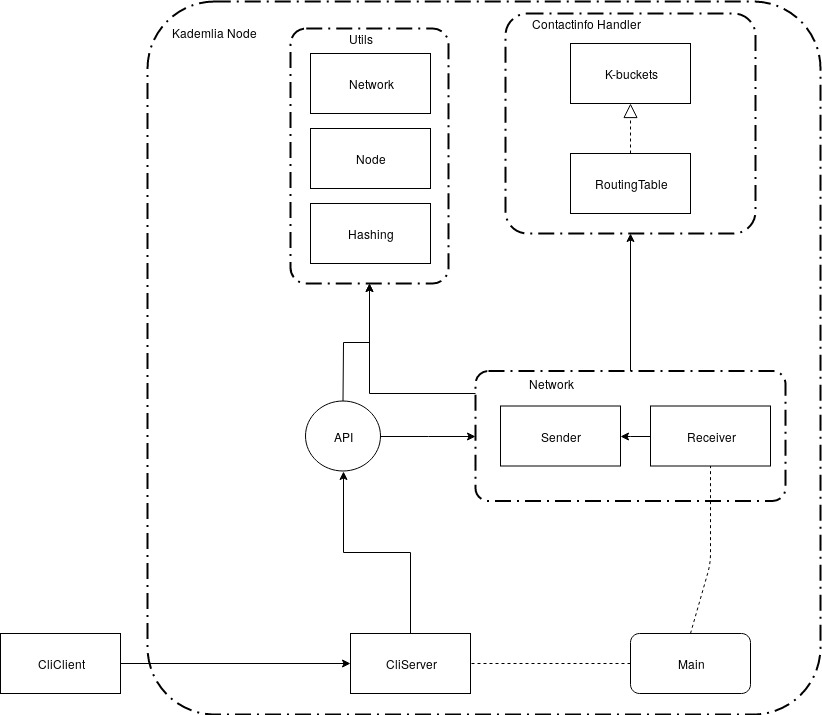
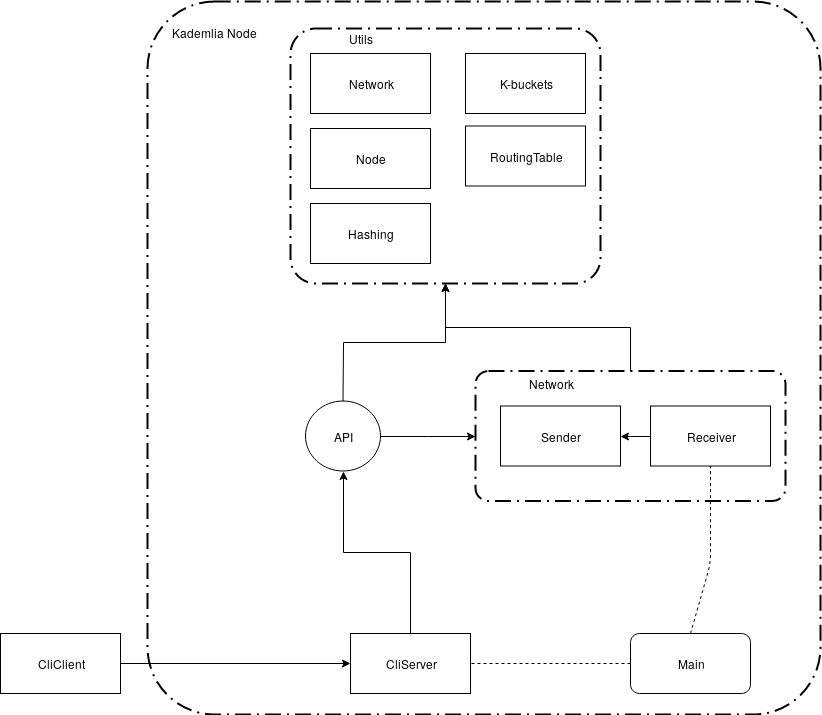
Finished the first draft of the final lab report
Modified abstract, design, introduction to account for sprint 2.
Added sections for system description as well as limitations/futurework.
Added sprint 2 reflections.
General clean up of the report as a whole.
Updated architecture design to match code structure.

diff --git a/docs/report/planning.tex b/docs/report/planning.tex
@@ -1,43 +1,85 @@
 \section{Planning}\label{sec:planning}
 
 \subsection{Sprint 1}\label{sec:sprint-1}
-
-After a discussion we estimated that we will complete the mandatory objectives 
+After a discussion we estimated that we will complete the mandatory objectives
 for this project during the first sprint. For the backlog, see our Github.
 \footnote{\href{https://github.com/JRasmusBm/D7024E_Lab_Kademlia}{https://github.com/JRasmusBm/D7024E\_Lab\_Kademlia}}\\
 
-\textbf{Networking:} A node shall be able to ping any other node, a node should be able to join the Kademlia network and a node shall be able to find any other node in the Kademlia network.\\
+\textbf{Networking:} A node shall be able to ping any other node,
+a node should be able to join the Kademlia network and a node shall
+be able to find any other node in the Kademlia network.\\
 
-\textbf{Objects:} Any node must be able to upload an object (key:val pair) that will be stored on appropriate nodes according to the kademlia principle. Any node must be able to find and download any object stored on at least one node of the kademlia network.\\
+\textbf{Objects:} Any node must be able to upload an object
+(key:val pair) that will be stored on appropriate nodes according
+to the kademlia principle. Any node must be able to find and
+download any object stored on at least one node of the kademlia network.\\
 
-\textbf{CLI:} Each node must be able to execute the following commands: put, get and exit. Exit terminates the node, get takes a hash as its arguement and outputs the node and the value sought if it exists. Put takes a value as an arguement and outputs the hash if uploaded successfully.\\
+\textbf{CLI:} Each node must be able to execute the following
+commands: put, get and exit. Exit terminates the node, get
+takes a hash as its arguement and outputs the node and the value
+sought if it exists. Put takes a value as an arguement and
+outputs the hash if uploaded successfully.\\
 
 \textbf{Testing:} At least a 50\% testing coverage of the implementation.\\
 
-\textbf{Containers:} A network of at least 50 nodes must be spinned up by containers where each node is a seperate container.
-
+\textbf{Containers:} A network of at least 50 nodes must be spinned
+up by containers where each node is a seperate container.
 
 \subsubsection{Sprint 1 reflections}\label{sec:sprint-1-reflections}
-As this report is due 48 hours before the end of sprint 1 we have not fully completed all planned objectives at this point, but we are close to complete all objectives and might still do so before the actual end of sprint 1.\\
+Not all planned objectives were fulfilled at the end of sprint 1,
+but a good foundation has been developed going into sprint 2.\\
 
-\textbf{Containers:} We have a network of 50 nodes spinned up by containers and each node is in a seperate container. This objective is complete.\\
+\textbf{Containers:} We have a network of 50 nodes spinned up by
+containers and each node is in a seperate container. This objective
+is complete.\\
 
-\textbf{Testing:} We are continously adding tests to our code, this objective should be complete before the official end of sprint 1.\\
+\textbf{Testing:} We are continously adding tests to our code,
+this objective should be complete before the official end of sprint 1.\\
 
-\textbf{CLI:} We have a simple shell that can connect and communicate with a server in each node. The functionality itself is dependent on the RPCs and not fully operational at this point.\\
+\textbf{CLI:} We have a simple shell that can connect and communicate
+with a server in each node. The functionality itself is dependent on
+the RPCs and not fully operational at this point.\\
 
-\textbf{Objects and Networking:} These are our RPCs and require the most work. They are beginning to become operational but are still work in progress at this point.
+\textbf{Objects and Networking:} These are our RPCs and require the
+most work. They are beginning to become operational but are still
+work in progress at this point.
+
+\newpage
 
 \subsection{Sprint 2}\label{sec:sprint-2}
-The plan is to implement all qualifying objectives except for concurrency after implementing any remaining mandatory objectives. For the backlog, see our Github.\footnote{\href{https://github.com/JRasmusBm/D7024E_Lab_Kademlia}{https://github.com/JRasmusBm/D7024E\_Lab\_Kademlia}}\\
+The plan is to implement all qualifying objectives except for
+concurrency after implementing any remaining mandatory objectives.
+For the backlog, see our Github.
+\footnote{\href{https://github.com/JRasmusBm/D7024E_Lab_Kademlia}
+{https://github.com/JRasmusBm/D7024E\_Lab\_Kademlia}}\\
 
-\textbf{Object expiration:} Implement Time-To-Live(TTL) functionality. When TTL expires the data object is silently deleted. But the TTL is reset every time the object is requested and transmitted.\\
+\textbf{Object expiration:} Implement Time-To-Live(TTL) functionality.
+When TTL expires the data object is silently deleted. But the TTL is
+reset every time the object is requested and transmitted.\\
 
-\textbf{Object expiration delay:} To prevent objects from expiring, the original node that uploaded the object sends a refresh command to reset the TTL without actually requesting the object. As long as the uploading node can contact the storing nodes, the object should never expire.\\
+\textbf{Object expiration delay:} To prevent objects from expiring,
+the original node that uploaded the object sends a refresh command
+to reset the TTL without actually requesting the object. As long
+as the uploading node can contact the storing nodes, the object
+should never expire.\\
 
-\textbf{Forget CLI command:} The command takes the hashnr of the object that is to be removed. (By stopping the refresh of TTL).\\
+\textbf{Forget CLI command:} The command takes the hashnr of the
+object that is to be removed. (By stopping the refresh of TTL).\\
 
-\textbf{RESTful application interface:} A restful HTTP interface so it may be integrated with web applications or other applications at some point. Implement POST-objects and GET-objects.\\
+\textbf{RESTful application interface:} A restful HTTP interface
+so it may be integrated with web applications or other applications
+at some point. Implement POST-objects and GET-objects.\\
 
 \textbf{Testing:} At least a 80\% test coverage of the implementation.
 
+\subsubsection{Sprint 2 reflections}\label{sec:sprint-2-reflections}
+We had to reconsider our plans throughout the sprint, realizing
+that attempting to implement all planned functionality would
+take a lot of time we decided to skip the implementation of a
+RESTful api as well as any time-to-live(TTL) functionality.
+Instead we focused on finishing any mandatory objectives as well
+as refactoring a lot of the code to reach 100\%
+test coverage in most cases to ensure a robust and good quality code.
+
+Any skipped functionality has been mentioned in the section for
+limitations and future work.

diff --git a/docs/report/abstract.tex b/docs/report/abstract.tex
@@ -1,3 +1,23 @@
 \begin{abstract}
-  This covers the project of a course in distributed systems (D7024E) given at Luleå Tekniska Universitet (LTU). The students are introduced to a distributed system principle (Kademlia) which is used in practice by Ethereum, BitTorrent, IPFS and more. Kademlia is to be implemented throughout this project in Google-go as well as Docker. During the first week it was concluded that all mandatory objectives is to be completed during the first sprint, at the end of the first sprint most of the mandatory objectives were complete or the majority of the objectives had been fulfilled. For the second sprint it was concluded that any remaining mandatory objectives were to be fulfilled and all qualifying objectives except for concurrency were to be fulfilled.
+This covers the project of a course in distributed systems (D7024E)
+given at Luleå Tekniska Universitet (LTU). The students are introduced
+to a distributed system principle (Kademlia) which is used in practice
+by Ethereum, BitTorrent, IPFS and more. Kademlia is to be implemented
+throughout this project in Google-go as well as Docker. During the first
+week it was concluded that all mandatory objectives is to be completed
+during the first sprint, this includes a CLI that supports the following
+commands get (retrieve
+object), put (upload object) and exit (terminate node) as well RPCs for
+lookup node, pinging, network joining, store value, find value and 50\%
+test coverage. At the end of the first sprint most of the mandatory
+objectives were complete or the majority of the objectives had been
+fulfilled. For the second sprint it was concluded that any remaining
+mandatory objectives were to be fulfilled and all qualifying objectives
+except for concurrency were to be fulfilled. This includes a RESTful api
+for future web application intergration as well as time-to-live (TTL)
+functionality to allow objects to silently be deleted if instructed to
+stop refreshing the TTL and at least 80\% test coverage. At the end of 
+sprint 2 all mandatory objectives were completed and almost a 100\% test
+coverage was reached. However the RESTful api and TTL functionality had
+to be reconsidered and was not implemented during this project.
 \end{abstract}

diff --git a/docs/report/systemDescription.tex b/docs/report/systemDescription.tex
@@ -1,0 +1,39 @@
+\section{System description}\label{sec:system description}
+\textbf{Cliserver:} The cliserver listens for connections from a client.
+Once a client has connected it handles communication between the kademlia node
+and the client. Entering an unsupported command results in a string asking the
+client to enter another command. Currently supported commands are:
+
+\begin{itemize}
+  \item close: Closes the connection.
+  \item exit: Closes the connection and terminates the kademlia node.
+  \item help: Returns a list of supported commands.
+  \item put filename: Uploads the contents of the file to the kademlia node and
+attempts to store it in the kademlia network.
+  \item get hashnr: Attempts to retrieve the value of the given hashnr if
+it's stored in the kademlia network.
+  \item ping ipaddr: The kademlia node attempts to ping the given IP address.
+\end{itemize}
+
+The commands are handled by passing them to an API between the cliserver and
+the internal network of the node.\\\\
+\textbf{Network:} The internal network of a kademlia node consists of a receiver
+and a sender. The receiver will always be listening for new connections and to
+handle their incoming requests while the sender will attempt to make connections
+to nodes on the kademlia network and make requests. The following are the
+implemented RPCs:
+
+\begin{itemize}
+  \item ping: Pings a known node to see if it is still alive.
+  \item store: Attempts to store the hashed value on X nodes.
+  \item findnode: Attempts to find a node in the kademlia network, if it's unknown
+it requests the closest known node to find it.
+  \item findvalue: Attempts to find the given value on the kademlia network.
+  \item join: Attempts to join the kademlia network.
+\end{itemize}
+
+The kademlia network is encoded and decoded using json.\\\\
+\textbf{Utils:} The utils package contains all utility functions such as hashing,
+finding your own IP and more.\\\\
+\textbf{Testing:} We strive towards 100\% text coverage and most if not all
+previously mentioned system parts have 100\% coverage.

diff --git a/docs/report/design.tex b/docs/report/design.tex
@@ -1,12 +1,15 @@
 \section{Design}\label{sec:design}
+The figure below represents a high level architectural overview of the
+implementation.
 
-Below is a figure of the general architecture of our implementation at the end of Sprint 1, this is a more finalized version but will be updated during sprint 2 if necessary.
 \begin{figure}[ht]
 \centering
 \includegraphics[width=\linewidth]{D7024E-architecture.jpg}
-\caption{High-level architecture of a node in the kademlia implementation.}
+\caption{High level architecture of a kademlia node in our implementation.}
 \end{figure}
 
-The main function starts a cliserver to handle incoming communication through a cliclient and starts a reciever. The reciever listens as the 'busy-wait' loop so that the node does not terminate but awaits further instructions. The receiver then spawns new threads (goroutines) as needed to handle incoming instructions. The sender is used to send any messages to other nodes in the network. Utils handles any general functions such as hashing, a node getting its own IP, etc. While the routing table keeps records of a nodes k-buckets.
-The cliserver will always listen on its IP and port 80 for incoming connections from cliclients, the server is limited to handling one connection at the time. Any commands from the cliclient that effects the kademlia network goes through an API. We chose this API as an access point as we plan to implement rest API in sprint 2.
+By looking at the figure, the main function
+initializes its network and cliserver before entering a loop that keeps the
+node alive until an 'exit' message is received through the cli. This will
+terminate the loop and thus terminate the node itself.
 

diff --git a/docs/report/futurework.tex b/docs/report/futurework.tex
@@ -1,0 +1,16 @@
+\section{Limitations and future work}\label{sec:limitations and future work}
+Some current limitations and possible future work.
+
+\begin{itemize}
+  \item Cli: Encode and decode messages between the server and the client.
+For example by using json as we do in the kademlia network.
+  \item Security: Implement encryption across the network.
+  \item Performance: Implement full support for concurrency and thread safety.
+  \item RESTful API: To be able to integrate our kademlia implementation
+with web applications a HTTP interface could be developed.
+  \item Time-to-live: Implement TTL so that stored objects can be set to be deleted,
+as well as a refresh command/functionality that keeps objects alive until instructed
+otherwise.
+\end{itemize}
+
+Certainly other topics such as developing some kind of permission hierarchy between nodes in the network and more could be considered.

diff --git a/docs/report/introduction.tex b/docs/report/introduction.tex
@@ -3,7 +3,8 @@
 This is the project lab in the course D7024E taught at Luleå Tekniska
 Universitet (LTU), in which the students get to work with the distributed hash
 table (DHT) Kademlia by implementing a kademlia solution using containers to
-spin up a network. This project covers an implementation using google-go and
-docker.
+spin up a network. This project covers an implementation using google-go
+\footnote{\href{https://golang.org/}{https://golang.org/}} and docker.
+\footnote{\href{https://www.docker.com/}{https://www.docker.com/}}
 
 The planning for the sprints can be found in Appendix~\ref{sec:planning}.

diff --git a/docs/report/main.tex b/docs/report/main.tex
@@ -13,7 +13,7 @@
 \renewcommand{\abstractname}{Executive Summary}
 
 \title{Kademlia\\ \medskip{}
-  \large{Sprint 1}
+  \large{Sprint 2}
 }
 
 \author{
@@ -33,6 +33,11 @@
 
 \input{introduction.tex}
 \input{design.tex}
+\input{systemDescription.tex}
+
+\newpage
+
+\input{futurework.tex}
 
 \appendix{}
 \newpage
